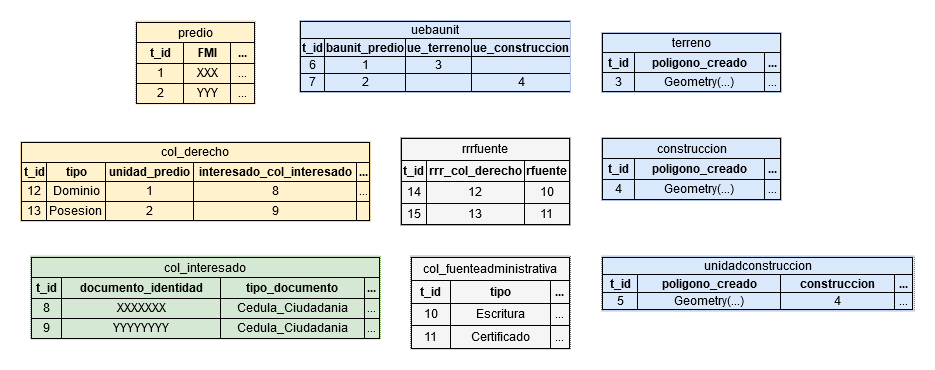
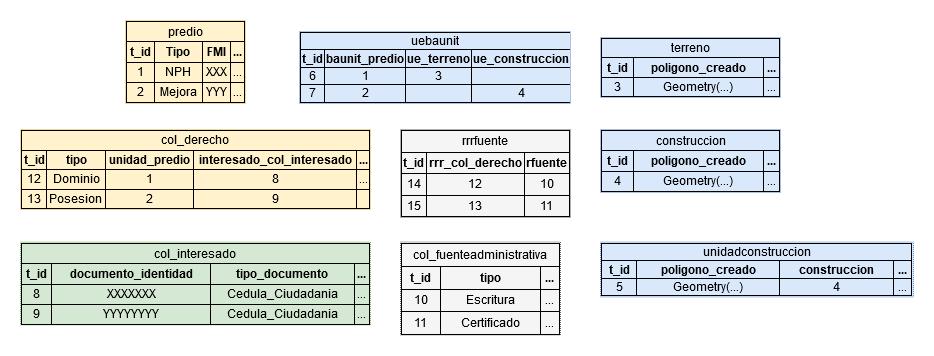
Se modifica el caso de Mejora de acuerdo a actualización al modelo

diff --git a/mejora/README.md b/mejora/README.md
@@ -16,7 +16,7 @@ Para este caso se deben crear registros para dos predios, uno que tiene un inter
 (**Datos del predio con terreno**)
 
 1. **Llenar tabla Terreno**: En esta tabla se agregan los datos relacionados con la representación espacial, tales como el área y la geometría, del polígono de terreno (verde)
-2. **Llenar tabla Predio**: En esta tabla se agregan datos alfanuméricos del predio al cuál pertenece el terreno, tales como el Número Predial, FMI, etc.
+2. **Llenar tabla Predio**: En esta tabla se agregan datos alfanuméricos del predio al cuál pertenece el terreno, tales como el Número Predial, FMI, etc; eligiendo como Tipo el valor "NPH"
 3. **Llenar relación UEBAUnit vinculando Terreno con Predio**
 4. **Llenar tabla COL_Interesado**: Esta tabla contiene los datos de la persona (natural o jurídica) que ejerce el derecho de Dominio sobre el predio
 8. **Llenar tabla COL_FuenteAdministrativa**: Esta tabla se agrega información de los documentos que soportan el derecho de Dominio
@@ -27,7 +27,7 @@ Para este caso se deben crear registros para dos predios, uno que tiene un inter
 
 11. **LLenar tabla Construccion**: En esta tabla se agregan los datos de la construcción de la mejora, que incluye datos como avalúo y área de construcción, etc
 12. **Llenar tabla unidadconstruccion**: En esta tabla se agregan los datos de la unidad de construcción de la mejora, que incluye datos tales como avalúo, número de pisos, y el id de la construcción con la cuál está relacionada.
-13. **Llenar tabla predio**: En esta tabla se agregan los datos alfanuméricos del predio al cuál pertenece la construcción.
+13. **Llenar tabla predio**: En esta tabla se agregan los datos alfanuméricos del predio al cuál pertenece la construcción; eligiendo como Tipo el valor "Mejora"
 14. **Llenar relación UEBAUnit vinculando Construccion con Predio**
 15. **Llenar tabla COL_Interesado**: Esta tabla se agregan los datos de la persona (natural o jurídica) que ejerce el derecho de Posesión sobre su predio
 16. **Llenar tabla COL_FuenteAdministrativa**: En esta tabla se agrega la información de los documentos que soportan el derecho de Posesión
